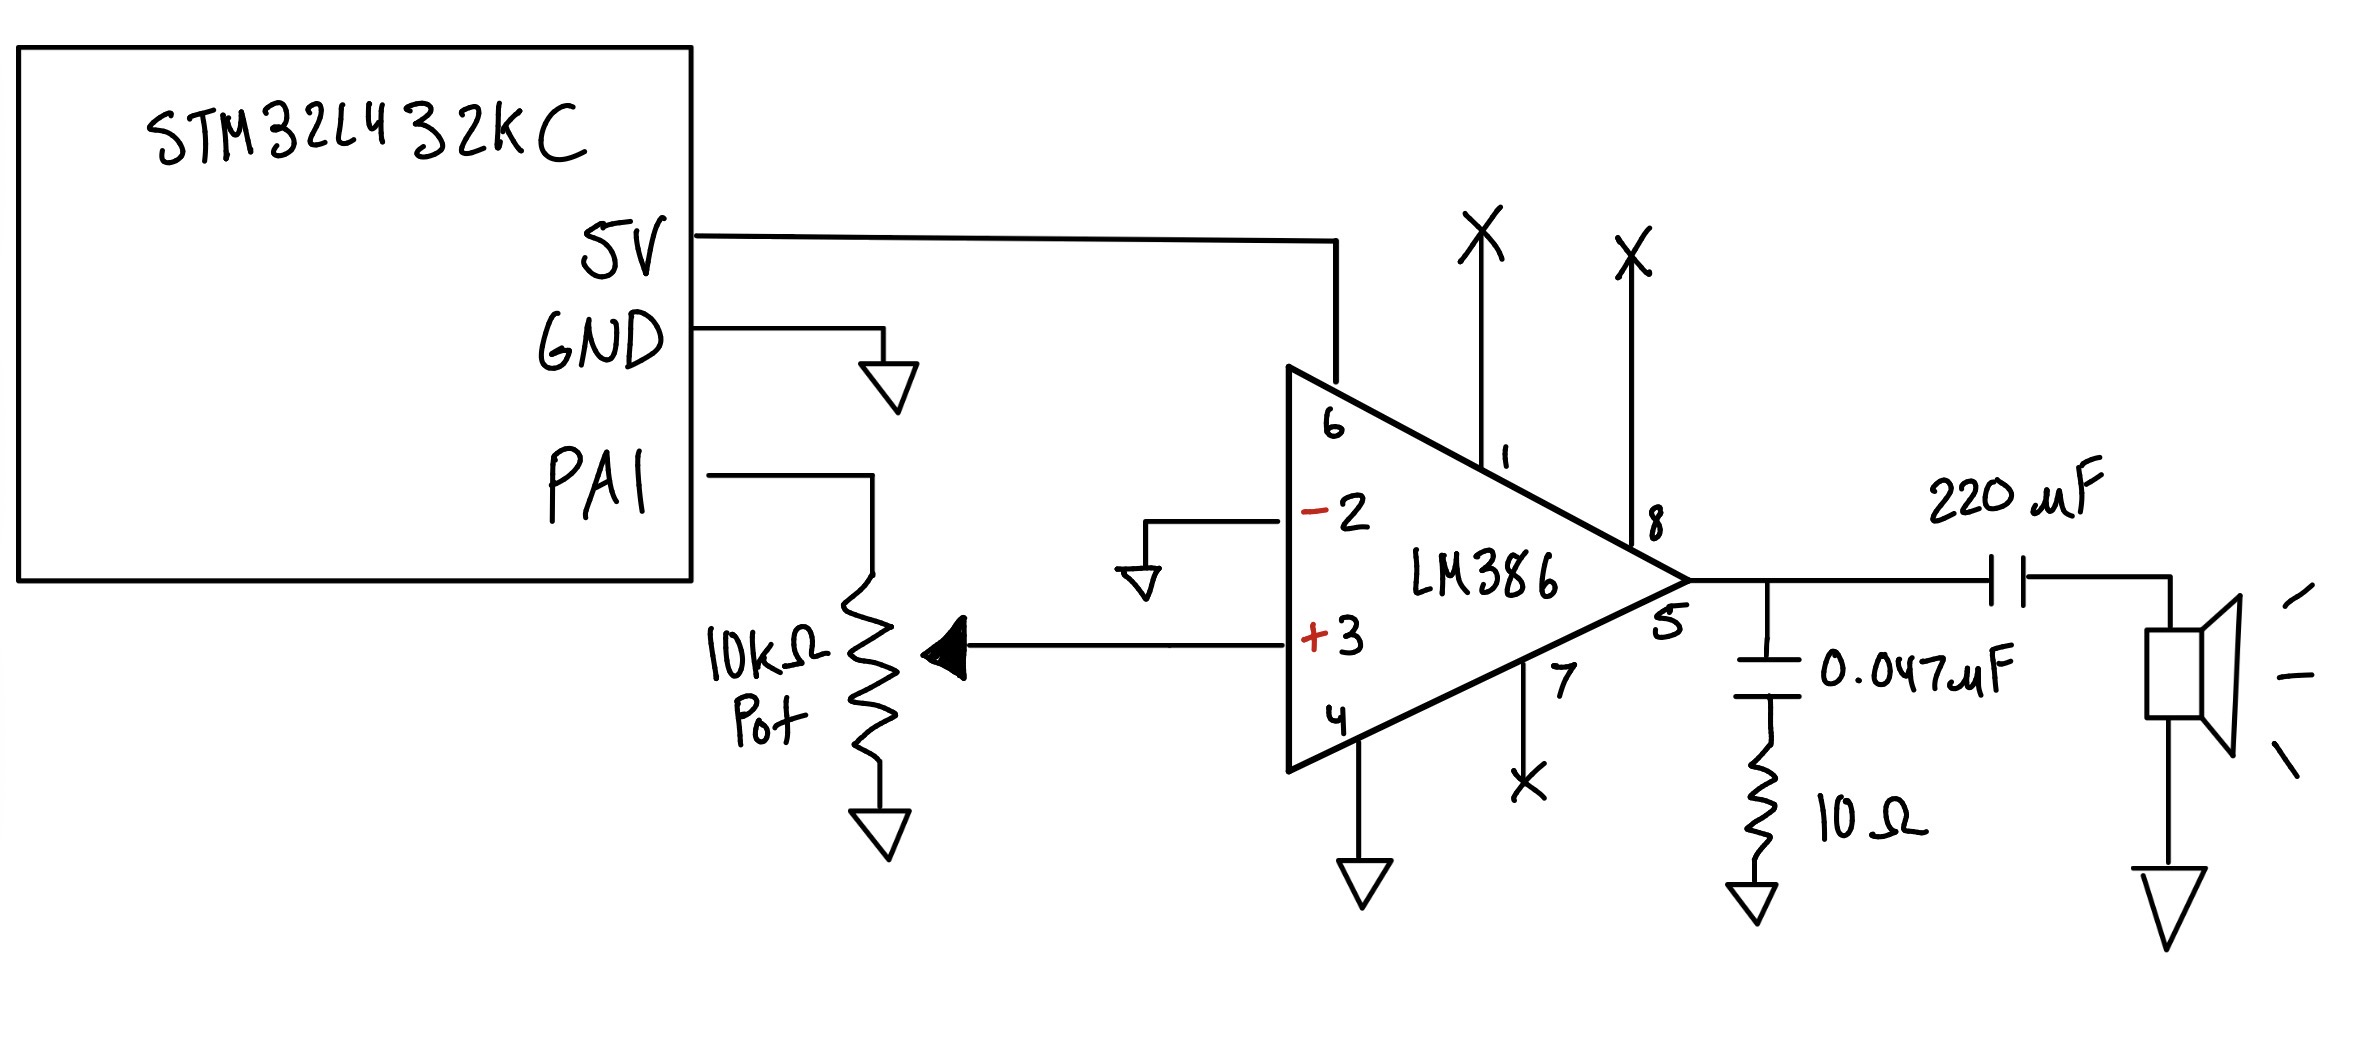
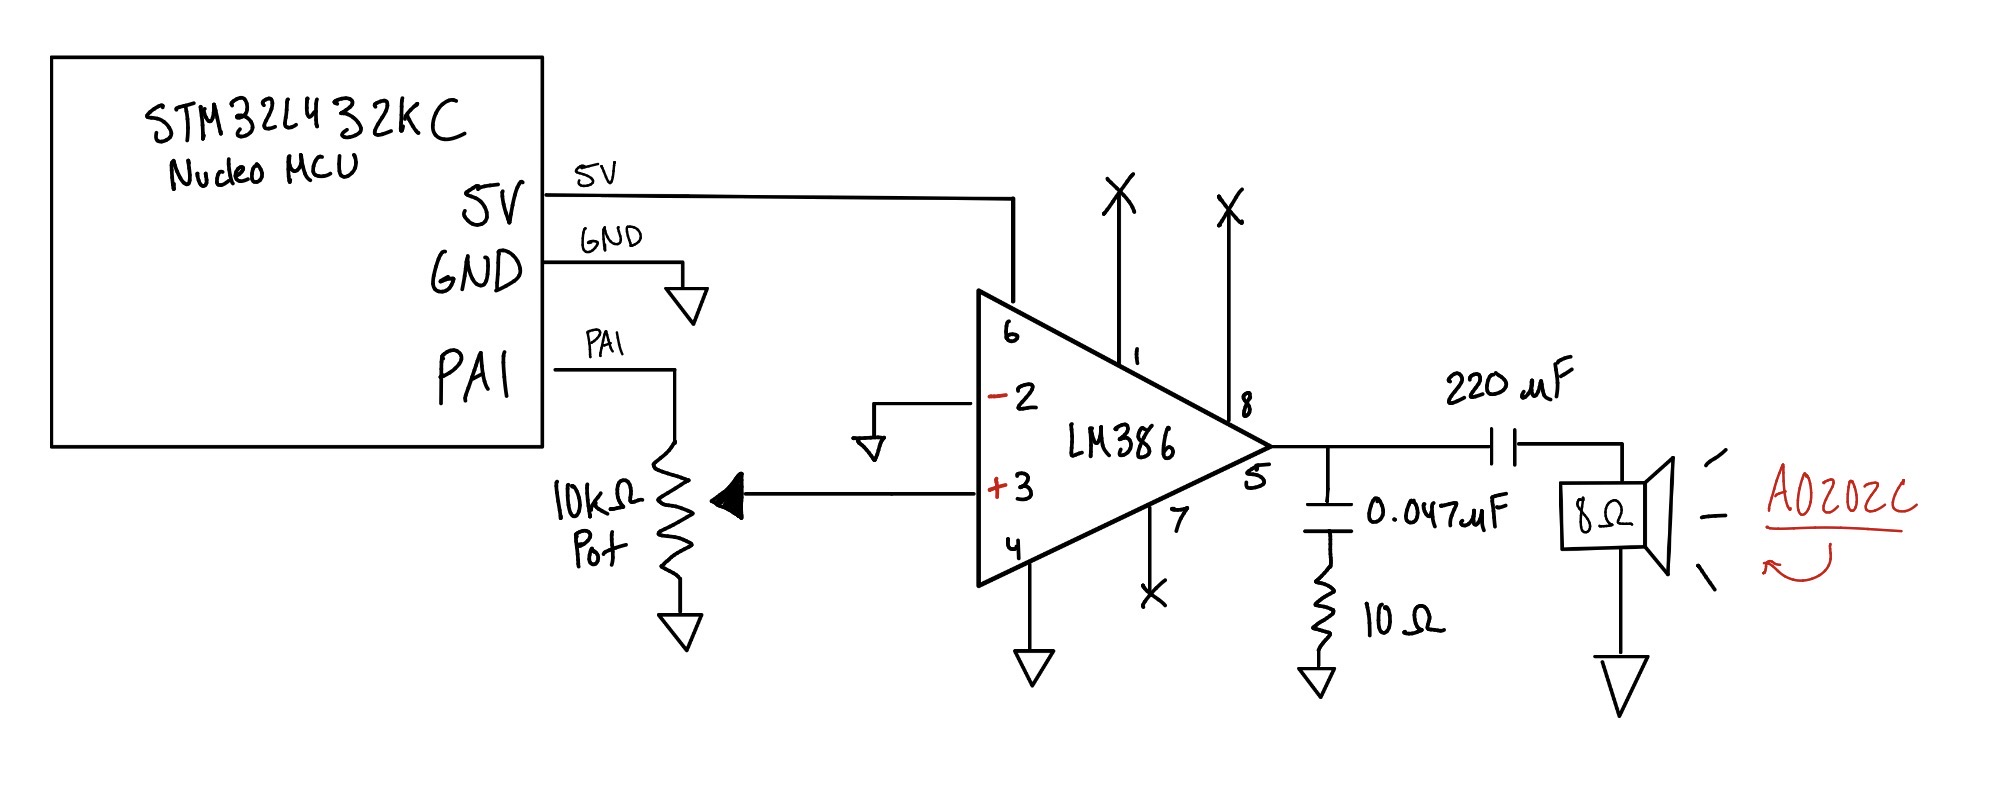
Built site for gh-pages

diff --git a/labs/lab4/lab4.html b/labs/lab4/lab4.html
@@ -364,7 +364,7 @@ window.Quarto = {
   <li><a href="#frequency-range" id="toc-frequency-range" class="nav-link" data-scroll-target="#frequency-range">Frequency Range</a></li>
   <li><a href="#duration-range" id="toc-duration-range" class="nav-link" data-scroll-target="#duration-range">Duration Range</a></li>
   <li><a href="#frequency-accuracy-220-hz-and-1000-hz" id="toc-frequency-accuracy-220-hz-and-1000-hz" class="nav-link" data-scroll-target="#frequency-accuracy-220-hz-and-1000-hz">Frequency Accuracy (220 Hz and 1000 Hz)</a></li>
-  <li><a href="#für-elise-accuracy" id="toc-für-elise-accuracy" class="nav-link" data-scroll-target="#für-elise-accuracy">Für Elise Accuracy</a></li>
+  <li><a href="#fur-elise-accuracy" id="toc-fur-elise-accuracy" class="nav-link" data-scroll-target="#fur-elise-accuracy">Fur Elise Accuracy</a></li>
   </ul></li>
   <li><a href="#technical-documentation" id="toc-technical-documentation" class="nav-link" data-scroll-target="#technical-documentation">Technical Documentation</a></li>
   <li><a href="#conclusion" id="toc-conclusion" class="nav-link" data-scroll-target="#conclusion">Conclusion</a></li>
@@ -401,7 +401,7 @@ window.Quarto = {
 <p>Joaquin Gonzalez-Salgado | jgonzalezsalgado@hmc.edu | September 28, 2026</p>
 <section id="introduction" class="level2">
 <h2 class="anchored" data-anchor-id="introduction">Introduction</h2>
-<p>In this lab, a hardware timer of the <a href="https://os.mbed.com/platforms/ST-Nucleo-L432KC/"><code>STM32L432KC MCU</code></a> was used to drive an 8-ohm speaker to play music. The timer was used to toggle a GPIO pin at a specified frequency, generating a square wave for each musical note, and also to produce millisecond delays for rests. The system was tested by playing <em>Für Elise</em>, and as an optional piece, <em>Fallen Down</em> was also implemented.</p>
+<p>In this lab, a hardware timer of the <a href="https://os.mbed.com/platforms/ST-Nucleo-L432KC/"><code>STM32L432KC MCU</code></a> was used to drive an 8-ohm speaker to play music. The timer was used to toggle a GPIO pin at a specified frequency, generating a square wave for each musical note, and also to produce millisecond delays for rests. The system was tested by playing <em>Fur Elise</em>, and as an optional piece, <em>Fallen Down</em> was also implemented.</p>
 </section>
 <section id="design-and-testing-methodology" class="level2">
 <h2 class="anchored" data-anchor-id="design-and-testing-methodology">Design and Testing Methodology</h2>
@@ -465,69 +465,37 @@ f_{\text{max}} = \frac{f_{\text{timer}}}{2 \times (\text{ARR}_{\text{min}} + 1)}
 </section>
 <section id="duration-range" class="level3">
 <h3 class="anchored" data-anchor-id="duration-range">Duration Range</h3>
-<table class="caption-top table">
-<colgroup>
-<col style="width: 33%">
-<col style="width: 33%">
-<col style="width: 33%">
-</colgroup>
-<thead>
-<tr class="header">
-<th></th>
-<th>Duration</th>
-<th>Explanation</th>
-</tr>
-</thead>
-<tbody>
-<tr class="odd">
-<td>Minimum</td>
-<td>1 ms</td>
-<td>Durations are integer milliseconds</td>
-</tr>
-<tr class="even">
-<td>Maximum (rests)</td>
-<td><span class="math inline">\(2^{31}-1\)</span> ms ≈ 24.8 days</td>
-<td>The duration is passed as a signed 32-bit <code>int</code></td>
-</tr>
-<tr class="odd">
-<td>Maximum (notes)</td>
-<td><span class="math inline">\(\lfloor (2^{31}-1)/2f \rfloor\)</span> ms ≈ 13.6 min at 1319 Hz</td>
-<td><code>2 * freq * delay</code> overflows a signed 32-bit <code>int</code></td>
-</tr>
-</tbody>
-</table>
+<p><strong>Minimum:</strong> durations are integer milliseconds, so <span class="math display">\[
+d_{\text{min}} = 1\,\text{ms}
+\]</span></p>
+<p><strong>Maximum (rests):</strong> the duration is passed as a signed 32-bit <code>int</code>, so <span class="math display">\[
+d_{\text{max,rest}} = 2^{31}-1 = 2{,}147{,}483{,}647\,\text{ms} = \frac{2{,}147{,}483{,}647}{86{,}400{,}000\,\text{ms/day}} \approx 24.8\,\text{days}
+\]</span></p>
+<p><strong>Maximum (notes):</strong> <code>2 * freq * delay</code> is computed as a signed 32-bit <code>int</code> and overflows past <span class="math inline">\(2^{31}-1\)</span>. At the highest note in <em>Fur Elise</em> (1319 Hz): <span class="math display">\[
+d_{\text{max,note}} = \left\lfloor \frac{2^{31}-1}{2 \times 1319} \right\rfloor = \left\lfloor \frac{2{,}147{,}483{,}647}{2638} \right\rfloor = 814{,}057\,\text{ms} \approx 13.6\,\text{min}
+\]</span></p>
 </section>
 <section id="frequency-accuracy-220-hz-and-1000-hz" class="level3">
 <h3 class="anchored" data-anchor-id="frequency-accuracy-220-hz-and-1000-hz">Frequency Accuracy (220 Hz and 1000 Hz)</h3>
-<table class="caption-top table">
-<thead>
-<tr class="header">
-<th>Target (Hz)</th>
-<th>ARR</th>
-<th>Actual (Hz)</th>
-<th>Error</th>
-</tr>
-</thead>
-<tbody>
-<tr class="odd">
-<td>220</td>
-<td>2271</td>
-<td>220.07</td>
-<td>0.03%</td>
-</tr>
-<tr class="even">
-<td>1000</td>
-<td>499</td>
-<td>1000.00</td>
-<td>0.00%</td>
-</tr>
-</tbody>
-</table>
-<p><code>ARR</code> must be an integer, so rounding it down gives a slightly higher frequency than the target. Both are well within 1% error.</p>
+<p><strong>220 Hz:</strong> <span class="math display">\[
+\text{ARR} = \left\lfloor\frac{1{,}000{,}000}{2 \times 220}\right\rfloor - 1 = \lfloor 2272.73 \rfloor - 1 = 2271
+\]</span> <span class="math display">\[
+f_{\text{actual}} = \frac{1{,}000{,}000}{2 \times (2271 + 1)} = 220.07\,\text{Hz}, \qquad \text{error} = \frac{220.07 - 220}{220} = 0.03\%
+\]</span></p>
+<p><strong>1000 Hz:</strong> <span class="math display">\[
+\text{ARR} = \left\lfloor\frac{1{,}000{,}000}{2 \times 1000}\right\rfloor - 1 = 500 - 1 = 499
+\]</span> <span class="math display">\[
+f_{\text{actual}} = \frac{1{,}000{,}000}{2 \times (499 + 1)} = 1000.00\,\text{Hz}, \qquad \text{error} = 0.00\%
+\]</span></p>
 </section>
-<section id="für-elise-accuracy" class="level3">
-<h3 class="anchored" data-anchor-id="für-elise-accuracy">Für Elise Accuracy</h3>
-<p>The table below applies the formulas above to every distinct note in <em>Für Elise</em>. Error is measured against the frequency stored in the <code>notes</code> array.</p>
+<section id="fur-elise-accuracy" class="level3">
+<h3 class="anchored" data-anchor-id="fur-elise-accuracy">Fur Elise Accuracy</h3>
+<p>The table below applies the formulas above to every distinct note in <em>Fur Elise</em>. Error is measured against the frequency stored in the <code>notes</code> array. For example, for E5 (659 Hz):</p>
+<p><span class="math display">\[
+\text{ARR} = \left\lfloor\frac{1{,}000{,}000}{2 \times 659}\right\rfloor - 1 = \lfloor 758.73 \rfloor - 1 = 757
+\]</span> <span class="math display">\[
+f_{\text{actual}} = \frac{1{,}000{,}000}{2 \times (757 + 1)} = 659.631\,\text{Hz}, \qquad \text{error} = \frac{659.631 - 659}{659} = 0.096\%
+\]</span></p>
 <table class="caption-top table">
 <thead>
 <tr class="header">
@@ -618,42 +586,61 @@ f_{\text{max}} = \frac{f_{\text{timer}}}{2 \times (\text{ARR}_{\text{min}} + 1)}
 </tr>
 </tbody>
 </table>
-<p>Every note in <em>Für Elise</em> is within 1% error.</p>
-<p><strong>Is checking 220 Hz and 1000 Hz sufficient?</strong> No.&nbsp;Checking only those two frequencies doesn’t give any information about the frequencies between them, and <em>Für Elise</em> goes above 1000 Hz anyway (E6 at 1319 Hz).</p>
+<p>Every note in <em>Fur Elise</em> is within 1% error.</p>
+<p><strong>Is checking 220 Hz and 1000 Hz sufficient?</strong> No.&nbsp;Checking only those two frequencies doesn’t give any information about the frequencies between them, and <em>Fur Elise</em> goes above 1000 Hz anyway (E6 at 1319 Hz).</p>
 </section>
 </section>
 <section id="technical-documentation" class="level2">
 <h2 class="anchored" data-anchor-id="technical-documentation">Technical Documentation</h2>
 <div class="callout callout-style-default callout-note callout-titled">
-<div class="callout-header d-flex align-content-center">
+<div class="callout-header d-flex align-content-center collapsed" data-bs-toggle="collapse" data-bs-target=".callout-1-contents" aria-controls="callout-1" aria-expanded="false" aria-label="Toggle callout">
 <div class="callout-icon-container">
 <i class="callout-icon"></i>
 </div>
 <div class="callout-title-container flex-fill">
 <span class="screen-reader-only">Note</span>Source Code
 </div>
+<div class="callout-btn-toggle d-inline-block border-0 py-1 ps-1 pe-0 float-end"><i class="callout-toggle"></i></div>
 </div>
+<div id="callout-1" class="callout-1-contents callout-collapse collapse">
 <div class="callout-body-container callout-body">
 <p>The source code for the project can be found in the associated <a href="https://github.com/jgonzs/Microprocessor-Projects">GitHub Repo</a>.</p>
 </div>
 </div>
+</div>
 <p><code>PA1</code> was configured as a general-purpose output by enabling the GPIOA clock via <code>RCC-&gt;AHB2ENR</code> and setting its <code>MODER</code> field to <code>01</code>. <code>TIM2</code> was enabled via <code>RCC-&gt;APB1ENR1</code>. All registers were accessed through hand-written struct typedefs, meaning no CMSIS headers! Very bare-metal C code.</p>
 <p><em>Lab 4 Wiring Schematic // Joaquin Gonzalez-Salgado // September 28, 2026</em></p>
+<div class="callout callout-style-default callout-note callout-titled">
+<div class="callout-header d-flex align-content-center collapsed" data-bs-toggle="collapse" data-bs-target=".callout-2-contents" aria-controls="callout-2" aria-expanded="false" aria-label="Toggle callout">
+<div class="callout-icon-container">
+<i class="callout-icon"></i>
+</div>
+<div class="callout-title-container flex-fill">
+<span class="screen-reader-only">Note</span>Expand to see Schematic
+</div>
+<div class="callout-btn-toggle d-inline-block border-0 py-1 ps-1 pe-0 float-end"><i class="callout-toggle"></i></div>
+</div>
+<div id="callout-2" class="callout-2-contents callout-collapse collapse">
+<div class="callout-body-container callout-body">
 <div id="fig-schematic" class="quarto-float quarto-figure quarto-figure-center anchored">
 <figure class="quarto-float quarto-float-fig figure">
 <div aria-describedby="fig-schematic-caption-0ceaefa1-69ba-4598-a22c-09a6ac19f8ca">
 <img src="images/schematic.jpeg" class="img-fluid figure-img">
 </div>
 <figcaption class="quarto-float-caption-bottom quarto-float-caption quarto-float-fig" id="fig-schematic-caption-0ceaefa1-69ba-4598-a22c-09a6ac19f8ca">
-Figure&nbsp;1: Schematic of MCU, LM386 amplifier, potentiometer, and 8-ohm speaker.
+Figure&nbsp;1: Schematic of the Nucleo STM32L432KC MCU, LM386 amplifier, 10 kΩ potentiometer, and 8-ohm A0202C speaker.
 </figcaption>
 </figure>
 </div>
-<p>The <code>PA1</code> output was connected through a <code>10 kΩ</code> potentiometer, wired as a voltage divider with its wiper feeding the non-inverting input of the <code>LM386 amplifier</code>, which provided adjustable volume. The <code>LM386</code> was powered from the <code>3.3 V</code> MCU supply, and its output drove the 8-ohm speaker.</p>
+</div>
+</div>
+</div>
+<p>The <code>PA1</code> output was connected through a <code>10 kΩ</code> potentiometer, wired as a voltage divider with its wiper feeding the non-inverting input of the <code>LM386 amplifier</code>, which provided adjustable volume. The <code>LM386</code> was powered from the <code>5 V</code> MCU supply, and its output drove the 8-ohm speaker.</p>
+<p>No components on the development board were used in this lab. Every component shown in <a href="#fig-schematic" class="quarto-xref">Figure&nbsp;1</a> is off-board, on the breadboard.</p>
 </section>
 <section id="conclusion" class="level2">
 <h2 class="anchored" data-anchor-id="conclusion">Conclusion</h2>
-<p>The design successfully met all lab requirements. <em>Für Elise</em> played at the correct tempo, with every pitch, including the 1319 Hz E6, within <code>1%</code> error, as verified by the <code>ARR</code> calculations above. All rests were rendered as silence for the correct durations. The optional composition <em>Fallen Down</em> also played correctly! And the potentiometer varied the volume as intended.</p>
+<p>The design successfully met all lab requirements. <em>Fur Elise</em> played at the correct tempo, with every pitch, including the 1319 Hz E6, within <code>1%</code> error, as verified by the <code>ARR</code> calculations above. All rests were rendered as silence for the correct durations. The optional composition <em>Fallen Down</em> also played correctly! And the potentiometer varied the volume as intended.</p>
 <div class="callout callout-style-default callout-note callout-titled">
 <div class="callout-header d-flex align-content-center">
 <div class="callout-icon-container">

diff --git a/e155.html b/e155.html
@@ -405,7 +405,7 @@ ul.task-list li input[type="checkbox"] {
   <div style="flex: 2; min-width: 300px;">
     <p class="justify-text">
       <strong>Summary:</strong><br>
-      Configured TIM2 on the STM32L432KC, using hand-written register definitions instead of CMSIS, to drive an 8-ohm speaker through an LM386 amplifier. Square waves are generated by toggling a GPIO pin on each timer update, and a 1 MHz timer clock (4 MHz system clock, PSC = 3) keeps every note within 1% frequency error. Played <em>Für Elise</em> and the optional piece <em>Fallen Down</em>, with a potentiometer for adjustable volume.
+      Configured TIM2 on the STM32L432KC, using hand-written register definitions instead of CMSIS, to drive an 8-ohm speaker through an LM386 amplifier. Square waves are generated by toggling a GPIO pin on each timer update, and a 1 MHz timer clock (4 MHz system clock, PSC = 3) keeps every note within 1% frequency error. Played <em>Fur Elise</em> and the optional piece <em>Fallen Down</em>, with a potentiometer for adjustable volume.
     </p>
     <a href="./labs/lab4/lab4.html" style="display: inline-block; border-radius: 6px; padding: 8px 14px; background-color: #f5f5f5; border: 1px solid #aaa; cursor: pointer; font-weight: 500; text-decoration: none; color: inherit;">
       See Lab Report
@@ -453,7 +453,7 @@ ul.task-list li input[type="checkbox"] {
   <div style="flex: 2; min-width: 300px;">
     <p class="justify-text">
       <strong>Summary:</strong><br>
-      Configured TIM2 on the STM32L432KC to drive an 8-ohm speaker via an LM386 amplifier, generating square waves by toggling a GPIO pin at twice the target frequency. Using a 1 MHz timer clock (4 MHz system clock and PSC=3), computed ARR values achieve 0.10% frequency error across 220–1000 Hz. Successfully played <em>Für Elise</em> and an optional piece <em>Fallen Down</em>, with a potentiometer providing adjustable volume.
+      Configured TIM2 on the STM32L432KC to drive an 8-ohm speaker via an LM386 amplifier, generating square waves by toggling a GPIO pin at twice the target frequency. Using a 1 MHz timer clock (4 MHz system clock and PSC=3), computed ARR values achieve 0.10% frequency error across 220–1000 Hz. Successfully played <em>Fur Elise</em> and an optional piece <em>Fallen Down</em>, with a potentiometer providing adjustable volume.
     </p>
     <a href="labs/lab4/lab4.qmd" style="display: inline-block; border-radius: 6px; padding: 8px 14px; background-color: #f5f5f5; border: 1px solid #aaa; cursor: pointer; font-weight: 500; text-decoration: none; color: inherit;">
       See Lab Report
